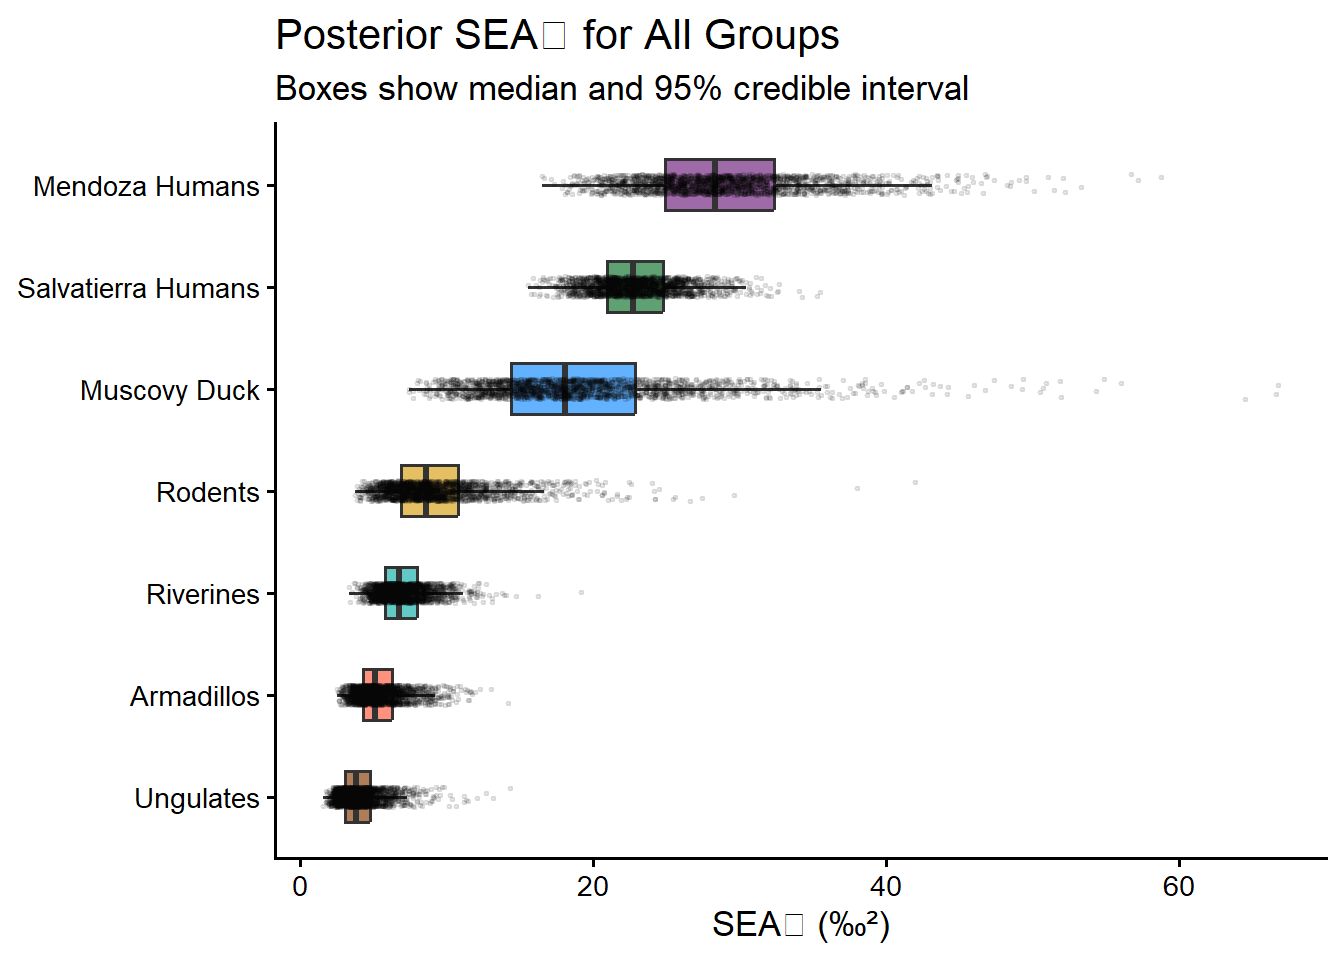
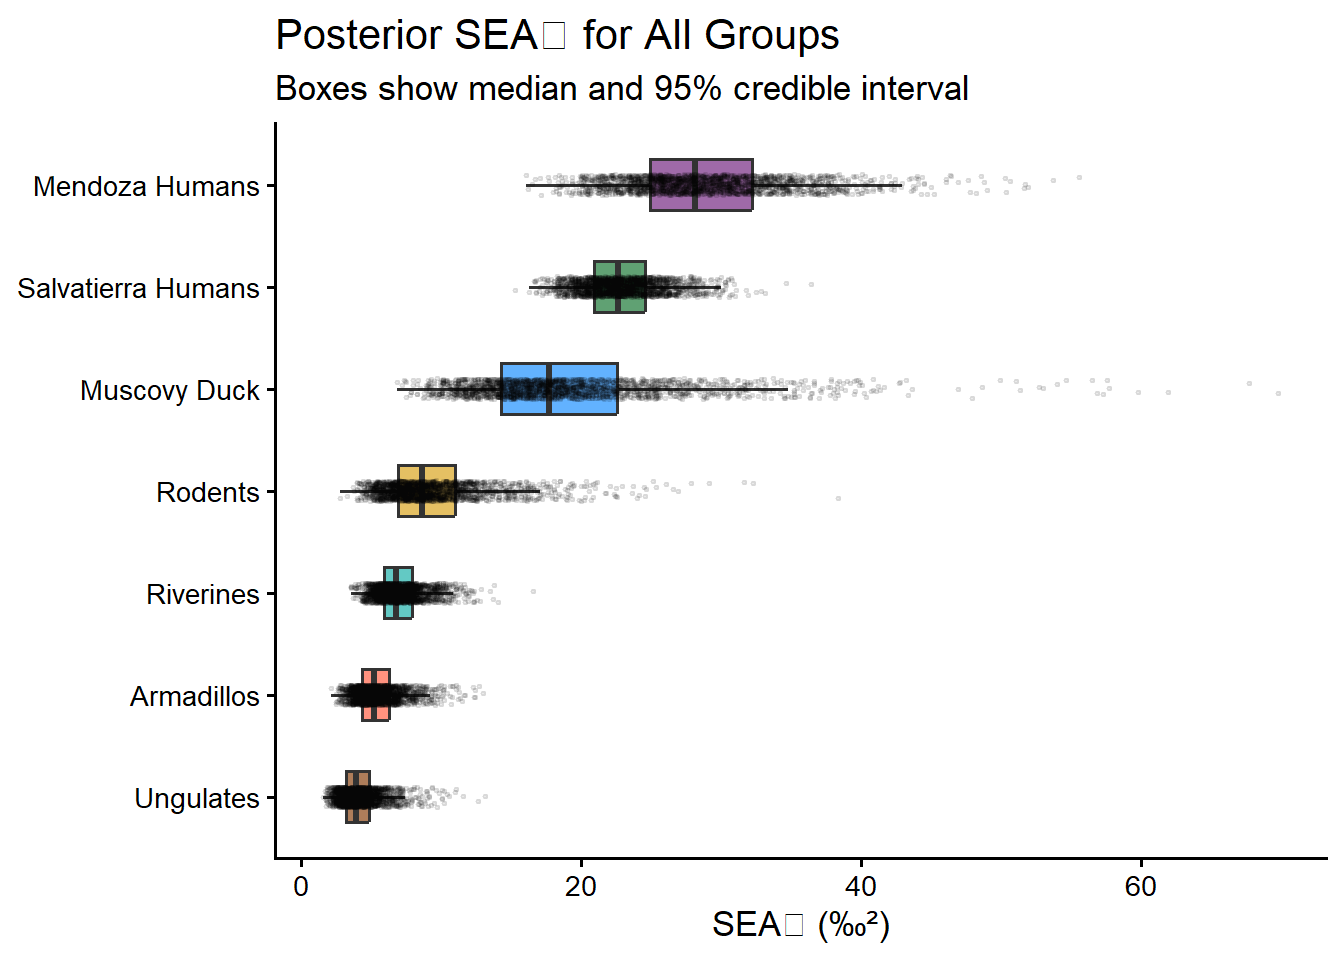
commit.

diff --git a/CollDataSciPro.html b/CollDataSciPro.html
@@ -589,8 +589,8 @@ Posterior SEA_B summary (‰²):</code></pre>
 <div class="code-copy-outer-scaffold"><div class="sourceCode cell-code" id="cb48"><pre class="sourceCode r code-with-copy"><code class="sourceCode r"><span id="cb48-1"><a href="#cb48-1" aria-hidden="true" tabindex="-1"></a><span class="fu">print</span>(<span class="fu">round</span>(<span class="fu">t</span>(SEA_B_sites_summary), <span class="dv">3</span>))</span></code></pre></div><button title="Copy to Clipboard" class="code-copy-button"><i class="bi"></i></button></div>
 <div class="cell-output cell-output-stdout">
 <pre><code>              mean median lower.2.5% upper.97.5%
-Mendoza     22.960 22.778     18.049      29.215
-Salvatierra 28.762 28.081     19.851      40.984</code></pre>
+Mendoza     22.929 22.723     18.244      28.888
+Salvatierra 28.949 28.081     19.745      42.543</code></pre>
 </div>
 </div>
 <p>Plot posterior SEA_B distributions</p>
@@ -628,7 +628,7 @@ Salvatierra 28.762 28.081     19.851      40.984</code></pre>
 <span id="cb51-4"><a href="#cb51-4" aria-hidden="true" tabindex="-1"></a>))</span></code></pre></div><button title="Copy to Clipboard" class="code-copy-button"><i class="bi"></i></button></div>
 <div class="cell-output cell-output-stdout">
 <pre><code>
-P(SEA_B Salvatierra &gt; SEA_B Mendoza) = 0.836</code></pre>
+P(SEA_B Salvatierra &gt; SEA_B Mendoza) = 0.839</code></pre>
 </div>
 </div>
 </section>
@@ -768,10 +768,10 @@ Posterior SEA_B summary by phase (‰²):</code></pre>
 <div class="code-copy-outer-scaffold"><div class="sourceCode cell-code" id="cb64"><pre class="sourceCode r code-with-copy"><code class="sourceCode r"><span id="cb64-1"><a href="#cb64-1" aria-hidden="true" tabindex="-1"></a><span class="fu">print</span>(<span class="fu">round</span>(<span class="fu">t</span>(SEA_B_phase_summary), <span class="dv">3</span>))</span></code></pre></div><button title="Copy to Clipboard" class="code-copy-button"><i class="bi"></i></button></div>
 <div class="cell-output cell-output-stdout">
 <pre><code>         mean median lower.2.5% upper.97.5%
-Phase_2 9.673  8.953      5.038      18.029
-Phase_3 5.939  5.803      4.013       8.790
-Phase_4 6.695  6.522      4.587       9.705
-Phase_5 9.267  8.277      4.301      20.036</code></pre>
+Phase_2 9.608  8.917      5.062      18.829
+Phase_3 5.963  5.831      4.019       8.821
+Phase_4 6.721  6.513      4.592       9.698
+Phase_5 9.409  8.439      4.300      20.133</code></pre>
 </div>
 <div class="code-copy-outer-scaffold"><div class="sourceCode cell-code" id="cb66"><pre class="sourceCode r code-with-copy"><code class="sourceCode r"><span id="cb66-1"><a href="#cb66-1" aria-hidden="true" tabindex="-1"></a>SEA_B_phase_long <span class="ot">&lt;-</span> <span class="fu">as.data.frame</span>(SEA_B_phase) <span class="sc">%&gt;%</span></span>
 <span id="cb66-2"><a href="#cb66-2" aria-hidden="true" tabindex="-1"></a>  <span class="fu">pivot_longer</span>(<span class="fu">everything</span>(), <span class="at">names_to =</span> <span class="st">"Phase"</span>, <span class="at">values_to =</span> <span class="st">"SEA_B"</span>) <span class="sc">%&gt;%</span></span>
@@ -810,12 +810,12 @@ Pairwise posterior probabilities P(row &gt; col):</code></pre>
 <span id="cb69-3"><a href="#cb69-3" aria-hidden="true" tabindex="-1"></a>  <span class="fu">cat</span>(<span class="fu">sprintf</span>(<span class="st">"  P(%s &gt; %s) = %.3f</span><span class="sc">\n</span><span class="st">"</span>, pair[<span class="dv">1</span>], pair[<span class="dv">2</span>], p))</span>
 <span id="cb69-4"><a href="#cb69-4" aria-hidden="true" tabindex="-1"></a>}</span></code></pre></div><button title="Copy to Clipboard" class="code-copy-button"><i class="bi"></i></button></div>
 <div class="cell-output cell-output-stdout">
-<pre><code>  P(Phase_2 &gt; Phase_3) = 0.881
-  P(Phase_2 &gt; Phase_4) = 0.802
-  P(Phase_2 &gt; Phase_5) = 0.562
-  P(Phase_3 &gt; Phase_4) = 0.343
+<pre><code>  P(Phase_2 &gt; Phase_3) = 0.884
+  P(Phase_2 &gt; Phase_4) = 0.807
+  P(Phase_2 &gt; Phase_5) = 0.539
+  P(Phase_3 &gt; Phase_4) = 0.328
   P(Phase_3 &gt; Phase_5) = 0.184
-  P(Phase_4 &gt; Phase_5) = 0.301</code></pre>
+  P(Phase_4 &gt; Phase_5) = 0.276</code></pre>
 </div>
 </div>
 </section>
@@ -1025,13 +1025,13 @@ Posterior SEA_B summary for all groups (‰²):</code></pre>
 <div class="code-copy-outer-scaffold"><div class="sourceCode cell-code" id="cb89"><pre class="sourceCode r code-with-copy"><code class="sourceCode r"><span id="cb89-1"><a href="#cb89-1" aria-hidden="true" tabindex="-1"></a><span class="fu">print</span>(<span class="fu">round</span>(<span class="fu">t</span>(SEA_B_combined_summary), <span class="dv">3</span>))</span></code></pre></div><button title="Copy to Clipboard" class="code-copy-button"><i class="bi"></i></button></div>
 <div class="cell-output cell-output-stdout">
 <pre><code>                     mean median lower.2.5% upper.97.5%
-Salvatierra Humans 22.972 22.782     18.014      29.227
-Mendoza Humans     29.088 28.369     19.972      42.847
-Ungulates           4.153  3.843      2.237       7.760
-Armadillos          5.474  5.140      3.188       9.453
-Riverines           7.045  6.817      4.537      10.721
-Muscovy Duck       19.432 18.085      9.875      37.551
-Rodents             9.330  8.599      4.839      18.420</code></pre>
+Salvatierra Humans 22.879 22.650     18.304      28.919
+Mendoza Humans     28.893 28.163     20.051      41.401
+Ungulates           4.196  3.941      2.225       7.821
+Armadillos          5.450  5.169      3.133       9.339
+Riverines           7.022  6.781      4.572      10.784
+Muscovy Duck       19.325 17.720      9.668      38.296
+Rodents             9.415  8.617      4.782      19.046</code></pre>
 </div>
 <div class="code-copy-outer-scaffold"><div class="sourceCode cell-code" id="cb91"><pre class="sourceCode r code-with-copy"><code class="sourceCode r"><span id="cb91-1"><a href="#cb91-1" aria-hidden="true" tabindex="-1"></a>plot_df <span class="ot">&lt;-</span> siber_combined_df <span class="sc">%&gt;%</span></span>
 <span id="cb91-2"><a href="#cb91-2" aria-hidden="true" tabindex="-1"></a>  <span class="fu">rename</span>(<span class="at">d13C =</span> iso1, <span class="at">d15N =</span> iso2)</span>
@@ -1512,8 +1512,8 @@ Posterior centroid draws structure:</code></pre>
 Columns: 4
 $ draw  &lt;int&gt; 1, 2, 3, 4, 5, 6, 7, 8, 9, 10, 11, 12, 13, 14, 15, 16, 17, 18, 1…
 $ phase &lt;chr&gt; "2", "2", "2", "2", "2", "2", "2", "2", "2", "2", "2", "2", "2",…
-$ mu1   &lt;dbl&gt; 1.937532, 7.696923, 4.226281, 2.017252, 1.930712, 1.979018, 3.93…
-$ mu2   &lt;dbl&gt; 0.96980325, 3.51747348, 2.00134783, 0.36311704, 0.38974790, 1.00…</code></pre>
+$ mu1   &lt;dbl&gt; 9.984678, 3.792470, 3.848948, 2.462176, 6.822384, 2.429586, 2.18…
+$ mu2   &lt;dbl&gt; -0.51466062, 2.21631792, 1.42723296, 1.12782398, -0.09410859, 3.…</code></pre>
 </div>
 <div class="code-copy-outer-scaffold"><div class="sourceCode cell-code" id="cb158"><pre class="sourceCode r code-with-copy"><code class="sourceCode r"><span id="cb158-1"><a href="#cb158-1" aria-hidden="true" tabindex="-1"></a><span class="co"># --- Compute Layman metrics per posterior draw ---</span></span>
 <span id="cb158-2"><a href="#cb158-2" aria-hidden="true" tabindex="-1"></a><span class="co"># For each draw, compute the 6 Layman metrics across the 4 phase centroids</span></span>
@@ -1601,12 +1601,12 @@ Posterior Layman Metrics Summary:</code></pre>
 <pre><code># A tibble: 6 × 5
   Metric    mean median lower upper
   &lt;chr&gt;    &lt;dbl&gt;  &lt;dbl&gt; &lt;dbl&gt; &lt;dbl&gt;
-1 dC_range  3.74   2.87 0.726 12.6 
-2 dN_range  4.78   3.97 1.40  13.2 
-3 TA        6.06   3.66 0.466 24.8 
-4 CD        2.18   1.78 0.776  5.95
-5 MNND      2.07   1.79 0.765  5.03
-6 SDNND     1.78   1.23 0.144  6.78</code></pre>
+1 dC_range  3.68   2.84 0.83  11.6 
+2 dN_range  4.70   3.98 1.32  12.4 
+3 TA        6.03   3.61 0.521 26.3 
+4 CD        2.14   1.76 0.771  5.81
+5 MNND      2.04   1.77 0.762  4.87
+6 SDNND     1.72   1.19 0.144  6.64</code></pre>
 </div>
 <div class="code-copy-outer-scaffold"><div class="sourceCode cell-code" id="cb164"><pre class="sourceCode r code-with-copy"><code class="sourceCode r"><span id="cb164-1"><a href="#cb164-1" aria-hidden="true" tabindex="-1"></a><span class="co"># ---  Visualise ---</span></span>
 <span id="cb164-2"><a href="#cb164-2" aria-hidden="true" tabindex="-1"></a>layman_long <span class="ot">&lt;-</span> layman_draws <span class="sc">%&gt;%</span></span>
@@ -2254,15 +2254,25 @@ different, consistent with intentional maize feeding of ducks.</code></pre>
 <section id="plots" class="level5">
 <h5 class="anchored" data-anchor-id="plots">Plots</h5>
 <p><strong>Figure 1 — Site-level biplot (Chunk 6):</strong> A δ¹³C vs δ¹⁵N scatter plot with 40% maximum likelihood ellipses shows Salvatierra and Mendoza populations nearly completely overlapping in isotopic space, with both sites positioned in the high-δ¹³C region consistent with substantial C4 (maize) consumption.</p>
+<p><img src="CollDataSciPro_files/figure-html/unnamed-chunk-8-1.png" class="img-fluid"></p>
 <p><strong>Figure 2 — Posterior SEA_B distributions by site (Chunk 6):</strong> Density plots of the posterior Bayesian Standard Ellipse Area show broadly overlapping distributions for both sites, confirming no credible difference in isotopic niche width between Salvatierra and Mendoza.</p>
+<p><img src="CollDataSciPro_files/figure-html/unnamed-chunk-11-1.png" class="img-fluid"></p>
 <p><strong>Figure 3 — Diachronic phase biplot (Chunk 7):</strong> A δ¹³C vs δ¹⁵N plot with ellipses by ceramic phase shows Phase 2 shifted toward higher δ¹³C values with minimal overlap with later phases, while Phases 3, 4, and 5 form a tightly clustered group in the −12 to −13‰ range.</p>
+<p><img src="CollDataSciPro_files/figure-html/unnamed-chunk-13-1.png" class="img-fluid"></p>
 <p><strong>Figure 4 — Posterior SEA_B by phase (Chunk 7):</strong> Density curves show Phase 2 has a distinctly narrower posterior SEA_B distribution than later phases, suggesting a more uniform and specialized diet in the earliest occupation.</p>
+<p><img src="CollDataSciPro_files/figure-html/unnamed-chunk-13-2.png" class="img-fluid"></p>
 <p><strong>Figure 5 — Combined human and fauna biplot (Chunk 8):</strong> The full community biplot shows clear isotopic separation between faunal groups, with Ungulates anchoring the C3 end and Armadillos/Muscovy Ducks clustering near the human populations at the C4 end.</p>
+<p><img src="CollDataSciPro_files/figure-html/unnamed-chunk-14-1.png" class="img-fluid"></p>
 <p><strong>Figure 6 — Posterior SEA_B boxplot for all groups (Chunk 8):</strong> Muscovy ducks and Rodents show the widest posterior niche width uncertainty relative to their sample sizes, while Ungulates and humans show tighter, better-constrained ellipses.</p>
+<p><img src="CollDataSciPro_files/figure-html/unnamed-chunk-14-2.png" class="img-fluid"></p>
 <p><strong>Figure 7 — Diachronic overlap heatmap (Chunk 11):</strong> The 4×4 proportional overlap matrix visualised as an annotated heatmap shows near-zero overlap between Phase 2 and Phases 4–5, and high overlap (&gt;0.7) among Phases 3, 4, and 5 — quantifying dietary convergence after CE 800 for the first time.</p>
+<p><img src="CollDataSciPro_files/figure-html/unnamed-chunk-18-1.png" class="img-fluid"></p>
 <p><strong>Figure 8 — Bayesian Layman metrics (Chunk 12):</strong> Posterior density plots for the six community-level metrics show that the δ¹³C range across phase centroids has the widest posterior uncertainty, reflecting the main axis of dietary change through time, while δ¹⁵N range and MNND are relatively stable.</p>
+<p><img src="CollDataSciPro_files/figure-html/unnamed-chunk-19-1.png" class="img-fluid"></p>
 <p><strong>Figure 9 — Centroid partitioning map (Chunk 12):</strong> Group centroids plotted in isotopic space with nearest-neighbour arrows show that Muscovy Ducks are isotopically closest to the human populations, while Ungulates are most distant — visualising the domestication-relevant dietary proximity between ducks and humans.</p>
+<p><img src="CollDataSciPro_files/figure-html/unnamed-chunk-19-2.png" class="img-fluid"></p>
 <p><strong>Figure 10 — Maize mixing model violin plots (Chunk 13):</strong> Two-panel figure showing estimated % maize contribution by ecological group (Panel A) and by ceramic phase in humans (Panel B). The diachronic panel clearly shows the decline from ~70% in Phase 2 to ~50% in Phase 5, with diamond markers showing phase means.</p>
+<p><img src="CollDataSciPro_files/figure-html/unnamed-chunk-21-1.png" class="img-fluid"></p>
 </section>
 <section id="patterns" class="level5">
 <h5 class="anchored" data-anchor-id="patterns">Patterns</h5>
